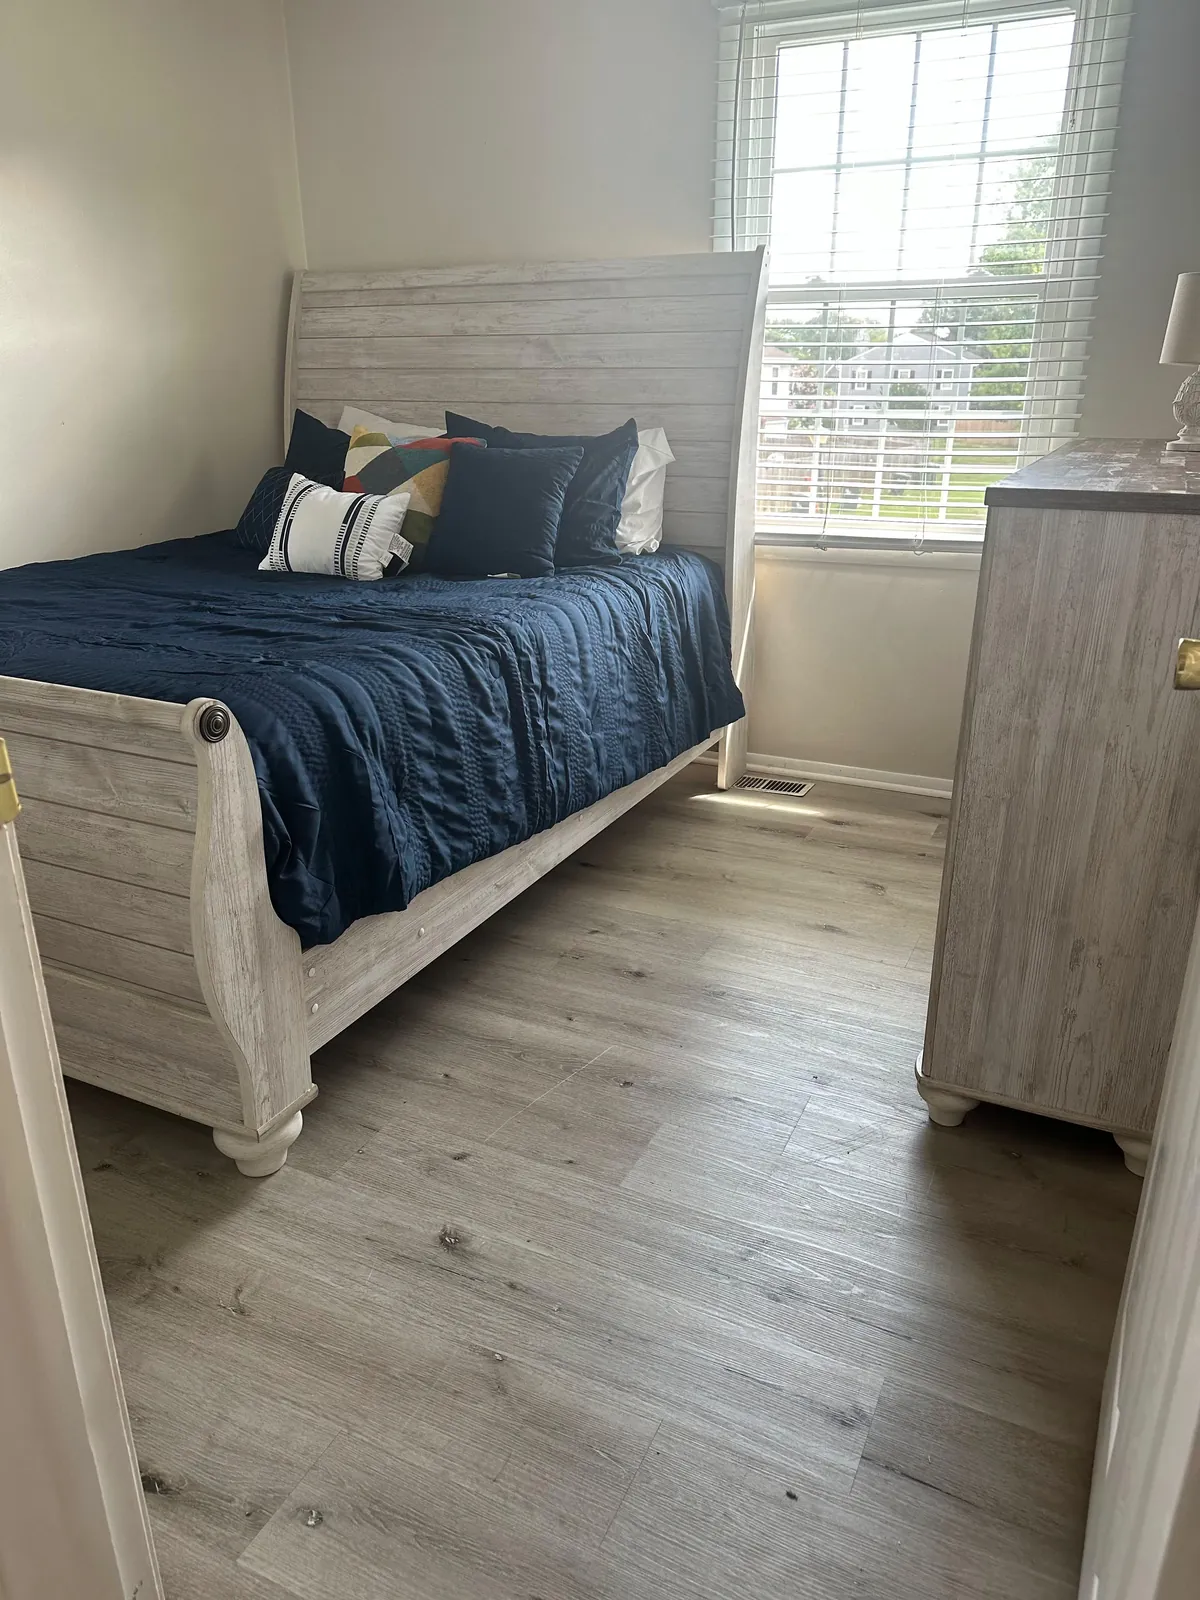
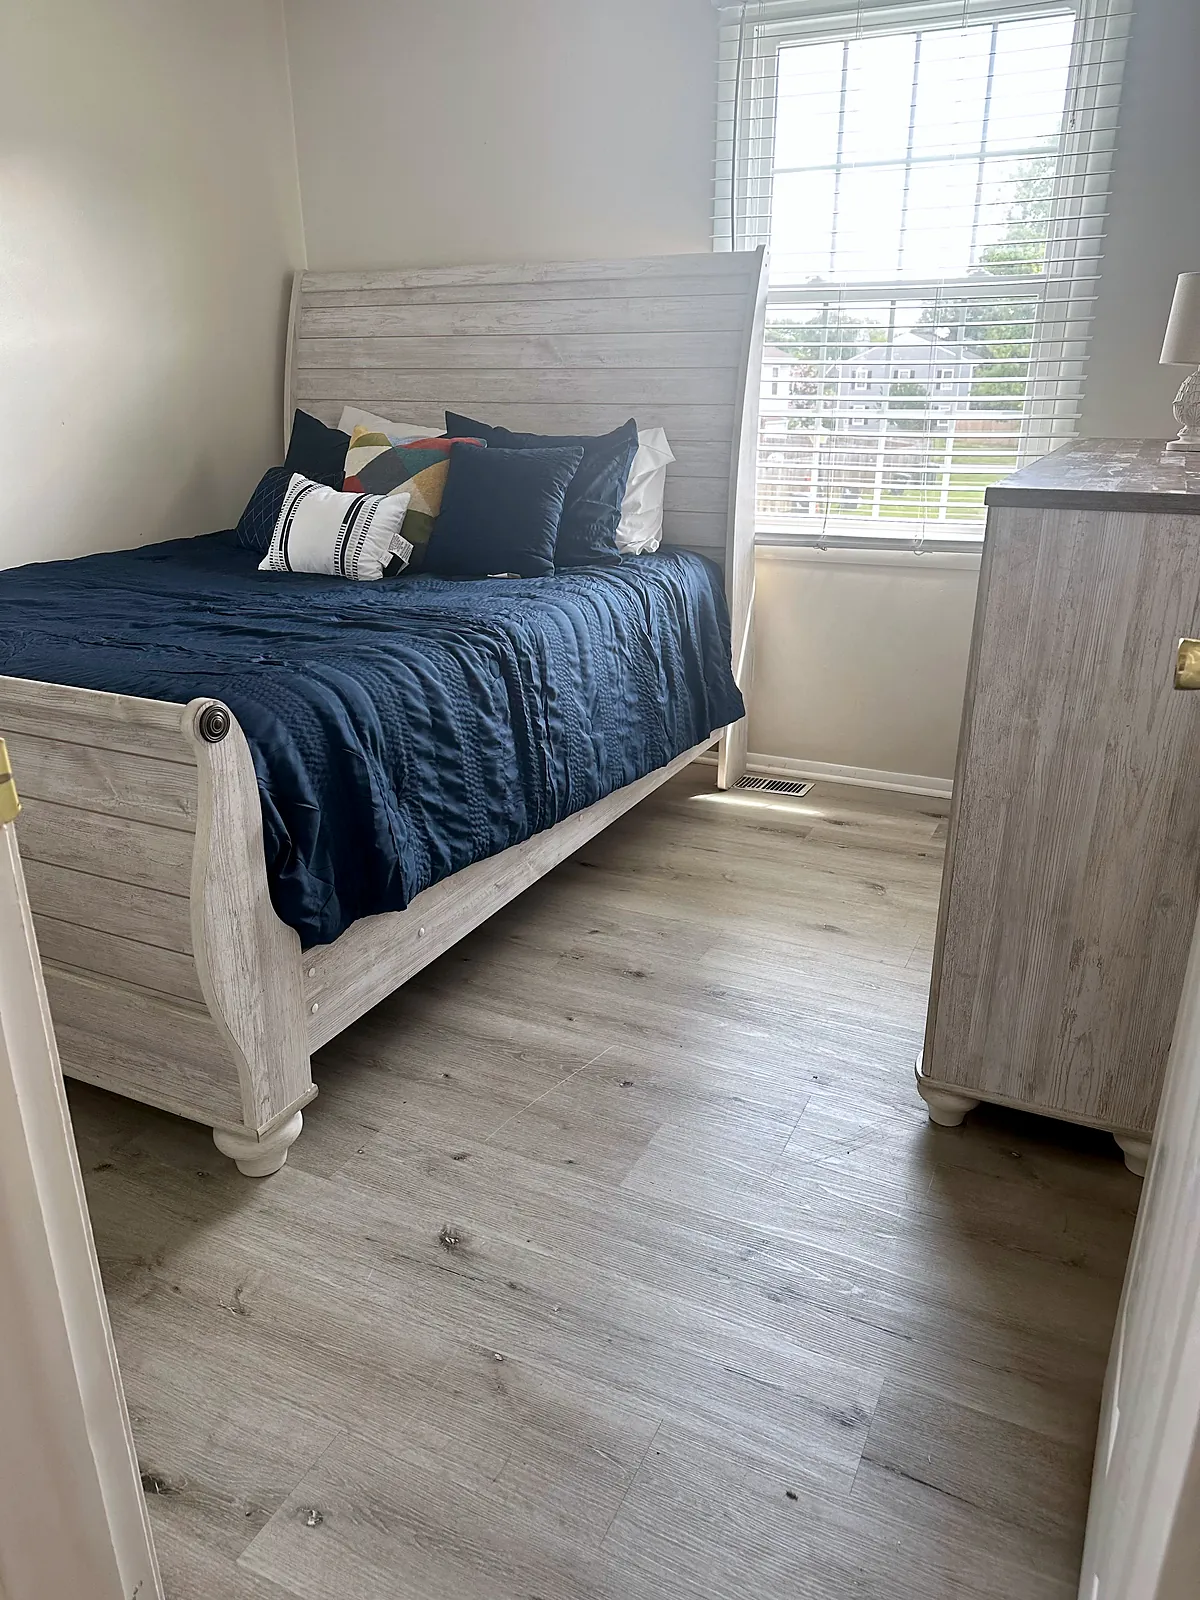
Add GPT Images 2.5 people photos and color-corrected home photos

diff --git a/lib/content.ts b/lib/content.ts
@@ -63,11 +63,11 @@ export const HOME_PHOTO_SIZE = { width: 1200, height: 1600 };
 // Placeholder slots for illustrative lifestyle images. These never depict
 // Beyon Vital staff or residents and are always captioned "Illustrative image".
 export const peopleImages = {
-  hero: { src: '/images/people/hero.webp', alt: 'Illustrative image of adults sharing a positive moment together', width: 1600, height: 1000 },
-  communityOuting: { src: '/images/people/community-outing.webp', alt: 'Illustrative image of adults on a community outing', width: 1200, height: 800 },
-  lifeCoaching: { src: '/images/people/life-coaching.webp', alt: 'Illustrative image of a one-on-one life coaching conversation', width: 1200, height: 800 },
-  volunteer: { src: '/images/people/volunteer.webp', alt: 'Illustrative image of adults doing volunteer work together', width: 1200, height: 800 },
-  staffCare: { src: '/images/people/staff-care.webp', alt: 'Illustrative image of a caregiver talking with an adult at home', width: 1200, height: 800 }
+  hero: { src: '/images/people/hero.webp', alt: 'Illustrative image of a caregiver and two adults laughing over a photo album on a living room sofa', width: 1600, height: 1000 },
+  communityOuting: { src: '/images/people/community-outing.webp', alt: 'Illustrative image of three adults shopping for fresh produce at an outdoor farmers market', width: 1200, height: 800 },
+  lifeCoaching: { src: '/images/people/life-coaching.webp', alt: 'Illustrative image of a coach helping a young adult fill in a planner at a table', width: 1200, height: 800 },
+  volunteer: { src: '/images/people/volunteer.webp', alt: 'Illustrative image of three adults planting seedlings together in a community garden', width: 1200, height: 800 },
+  staffCare: { src: '/images/people/staff-care.webp', alt: 'Illustrative image of a caregiver and an adult talking over coffee at a kitchen table', width: 1200, height: 800 }
 };
 
 export const requirementsIntro = 'To ensure the comfort of staff and potential residents, you must meet the following criteria:';
